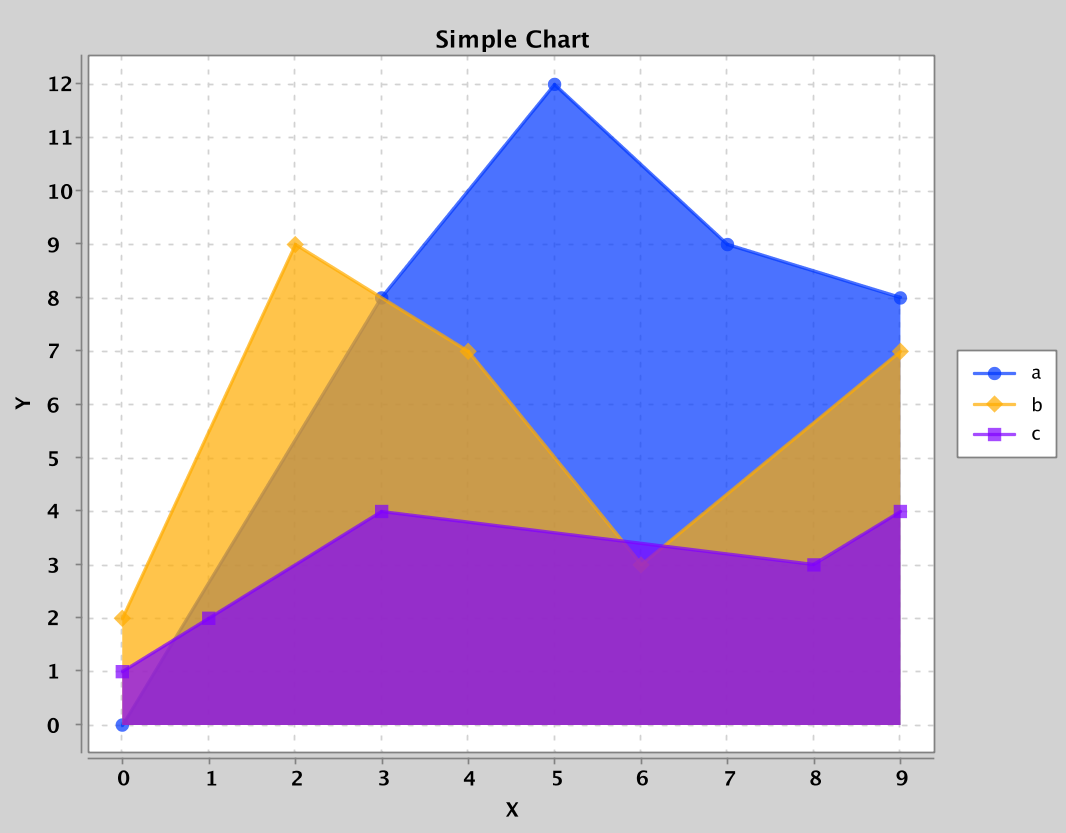
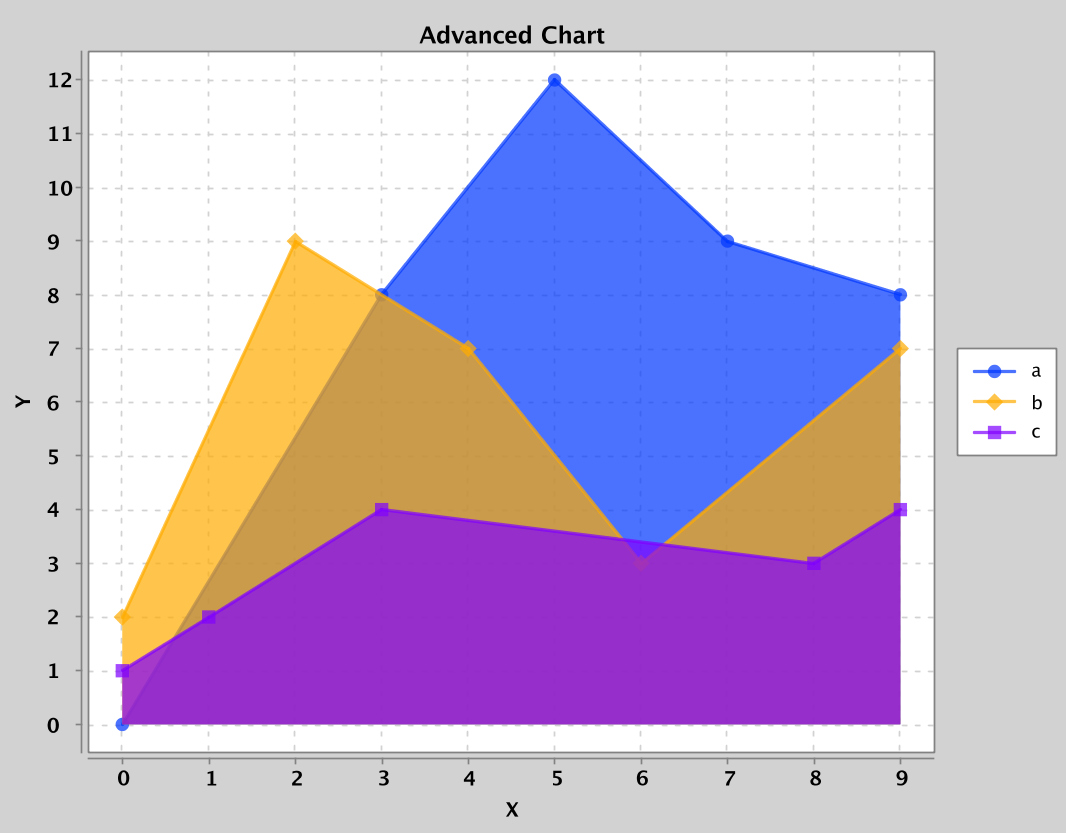
updated sample charts

diff --git a/README.md b/README.md
@@ -465,8 +465,8 @@ Venice provides a simple protocol facility.
          { :title "Simple Chart"
            :render-style :area
            :legend {:position :inside-ne}
-           :x-axis { :title "X" :decimal-pattern "#0.0"}
-           :y-axis { :title "Y" :decimal-pattern "#0.0"}
+           :x-axis { :title "X" :decimal-pattern "#0"}
+           :y-axis { :title "Y" :decimal-pattern "#0"}
            :theme :xchart } )
       :png ;; write as PNG
       120  ;; render with 120 dpi
